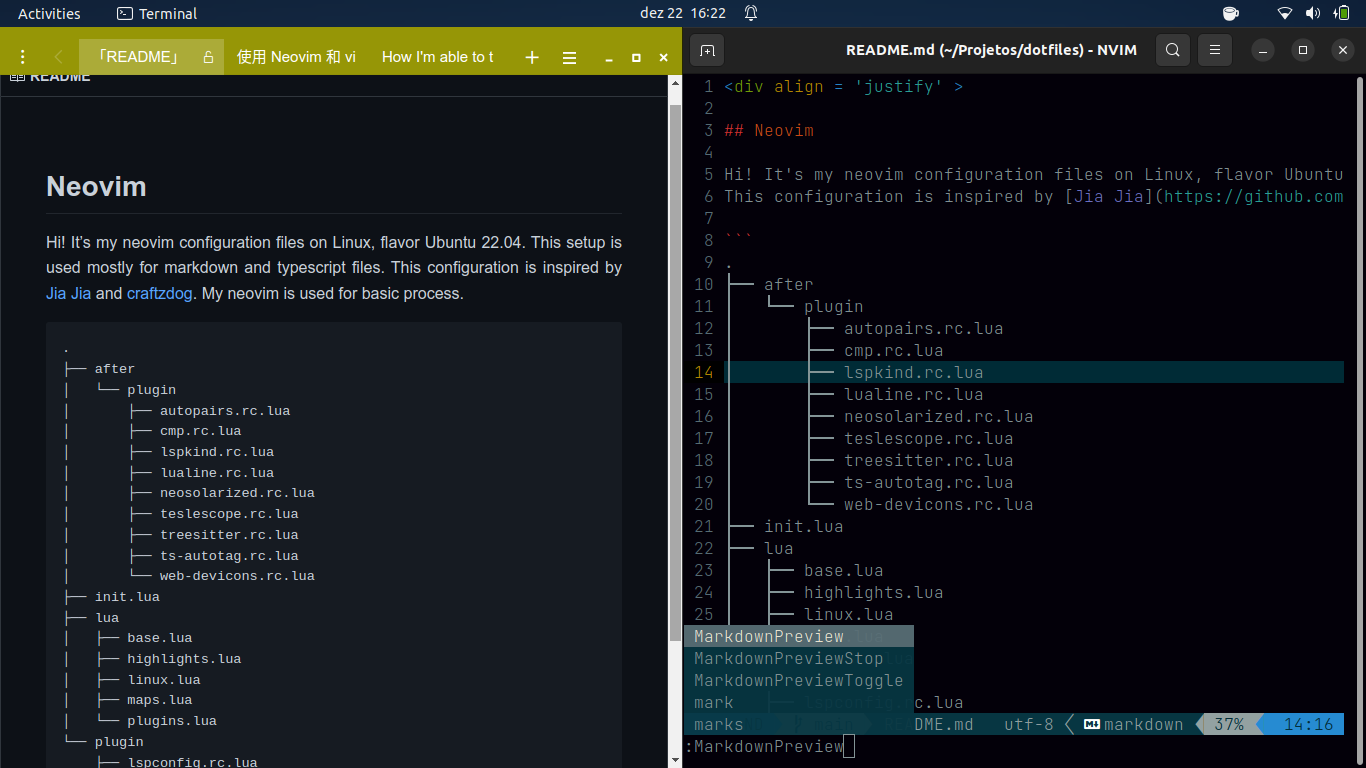
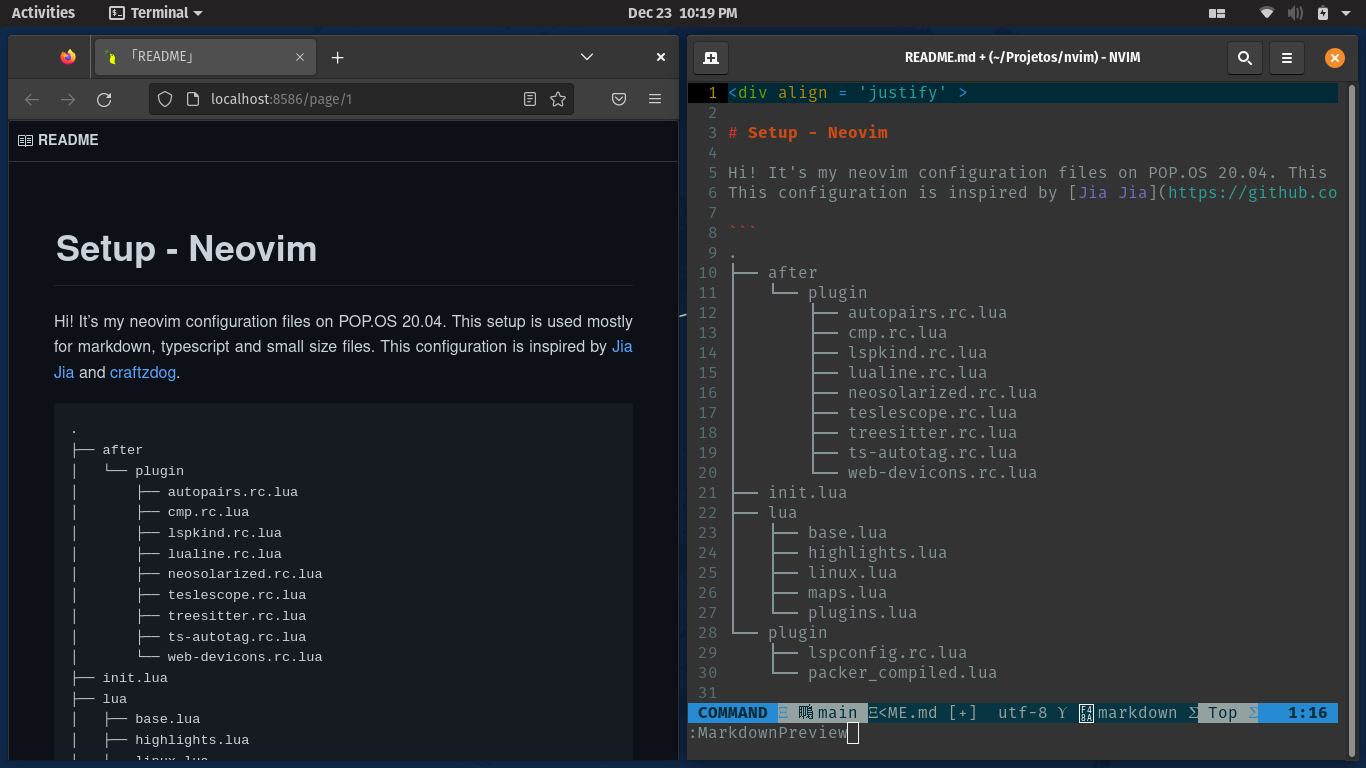
Fix

diff --git a/README.md b/README.md
@@ -1,6 +1,6 @@
 <div align = 'justify' >
 
-# Configuration
+# Setup - Neovim
 
 Hi! It's my neovim configuration files on POP.OS 20.04. This setup is used mostly for markdown, typescript and small size files.
 This configuration is inspired by [Jia Jia](https://github.com/mathjiajia/config.nvim) and [craftzdog](https://github.com/craftzdog/dotfiles-public). 
@@ -64,18 +64,18 @@ sudo ln -s /squashfs-root/AppRun /usr/bin/nvim
 nvim
 ```
 
+## Packer
+
+For the installation of plugins, we need of packer.
+
+```
+git clone --depth 1 https://github.com/wbthomason/packer.nvim\
+ ~/.local/share/nvim/site/pack/packer/start/packer.nvim
+```
+
 ## Language Server
 
-For Java, I used jdt (Eclipse), for Typescript, typescript (Sumneko)
-
-```
-# This installation is based in https://github.com/lxyoucan/nvim-as-java-ide
-
-mkdir -p ~/.local/share/nvim/lsp/jdt-language-server/workspace/folder
-cd ~/.local/share/nvim/lsp/jdt-language-server
-wget https://download.eclipse.org/jdtls/milestones/1.9.0/jdt-language-server-1.9.0-202203031534.tar.gz
-tar -zxvf jdt-language-server-1.9.0-202203031534.tar.gz
-```
+For Lua:
 
 ```
 sudo apt install ninja-build build-essential
@@ -94,7 +94,7 @@ source ~/.bashrc
 exec $SHELL
 ```
 
-For the second one, do:
+For Typescript:
 
 ```
 sudo npm install -g typescript-language-server typescript
